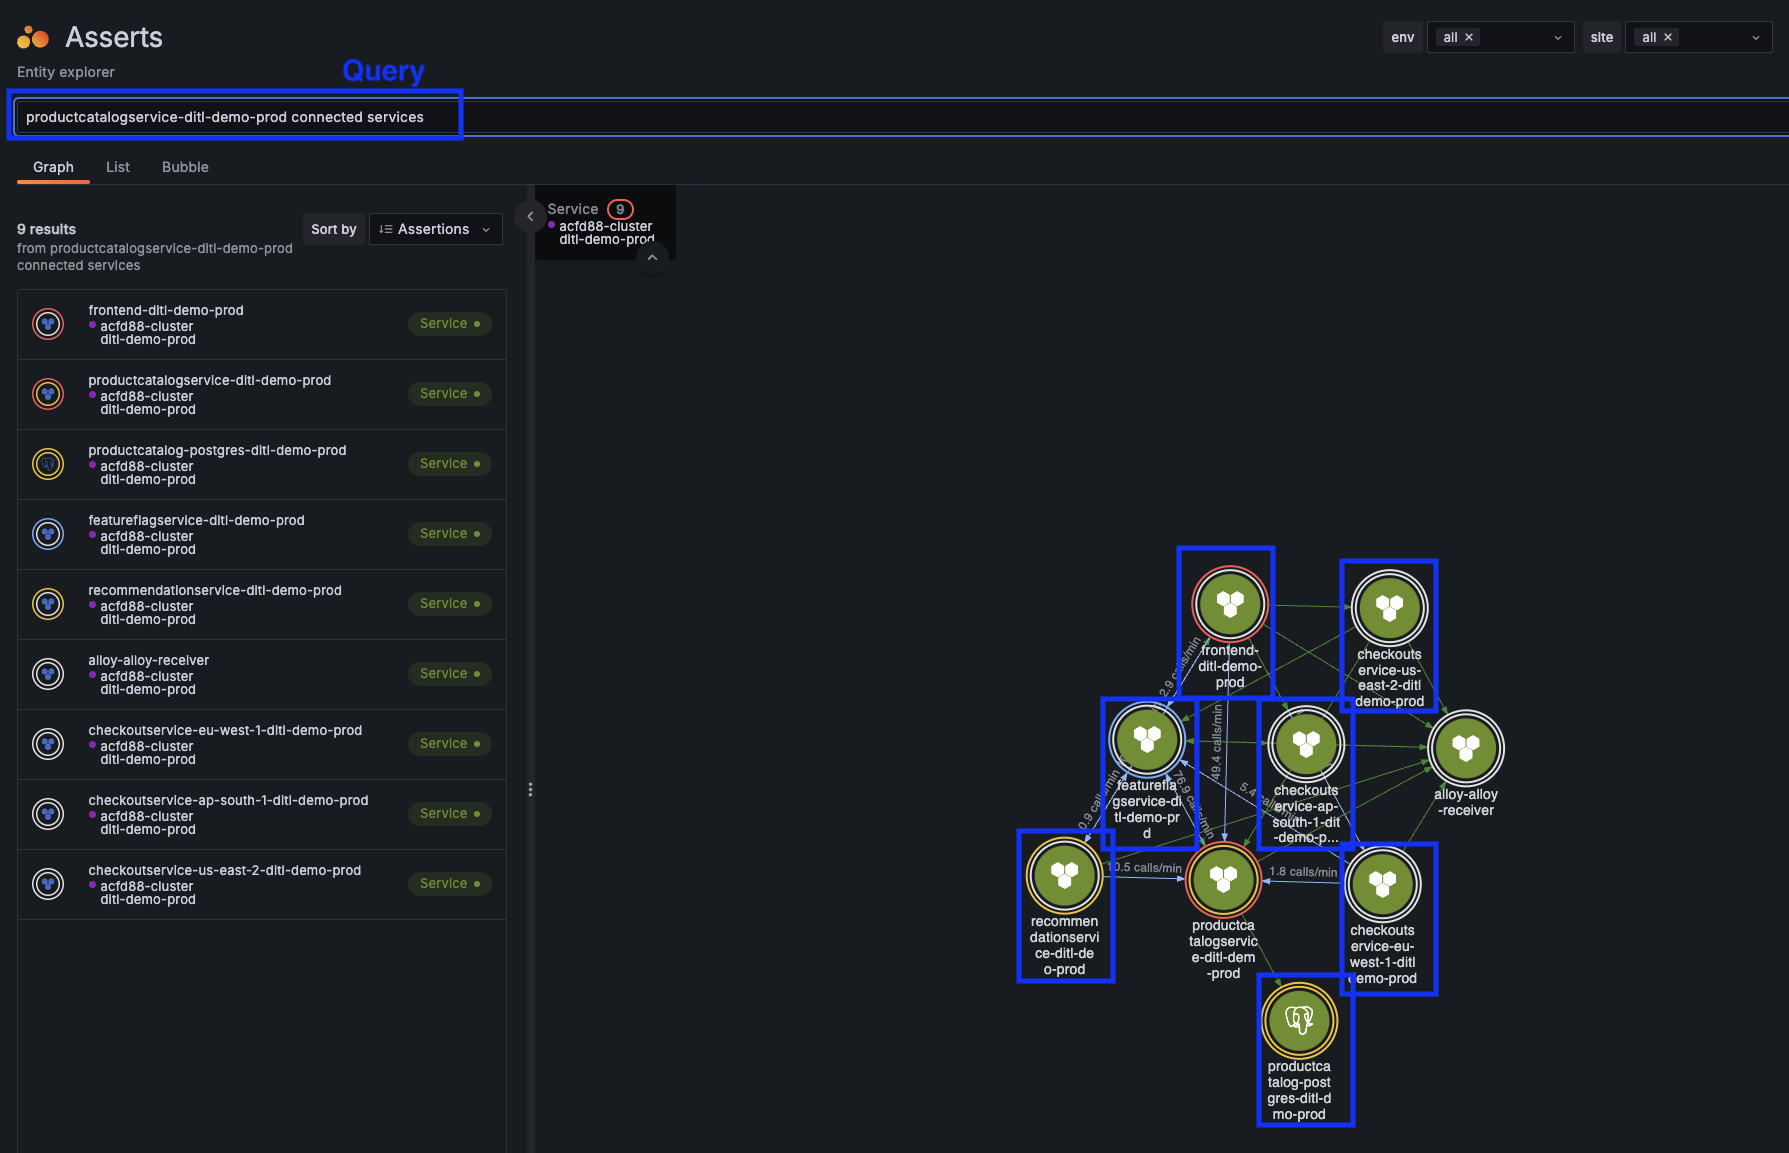
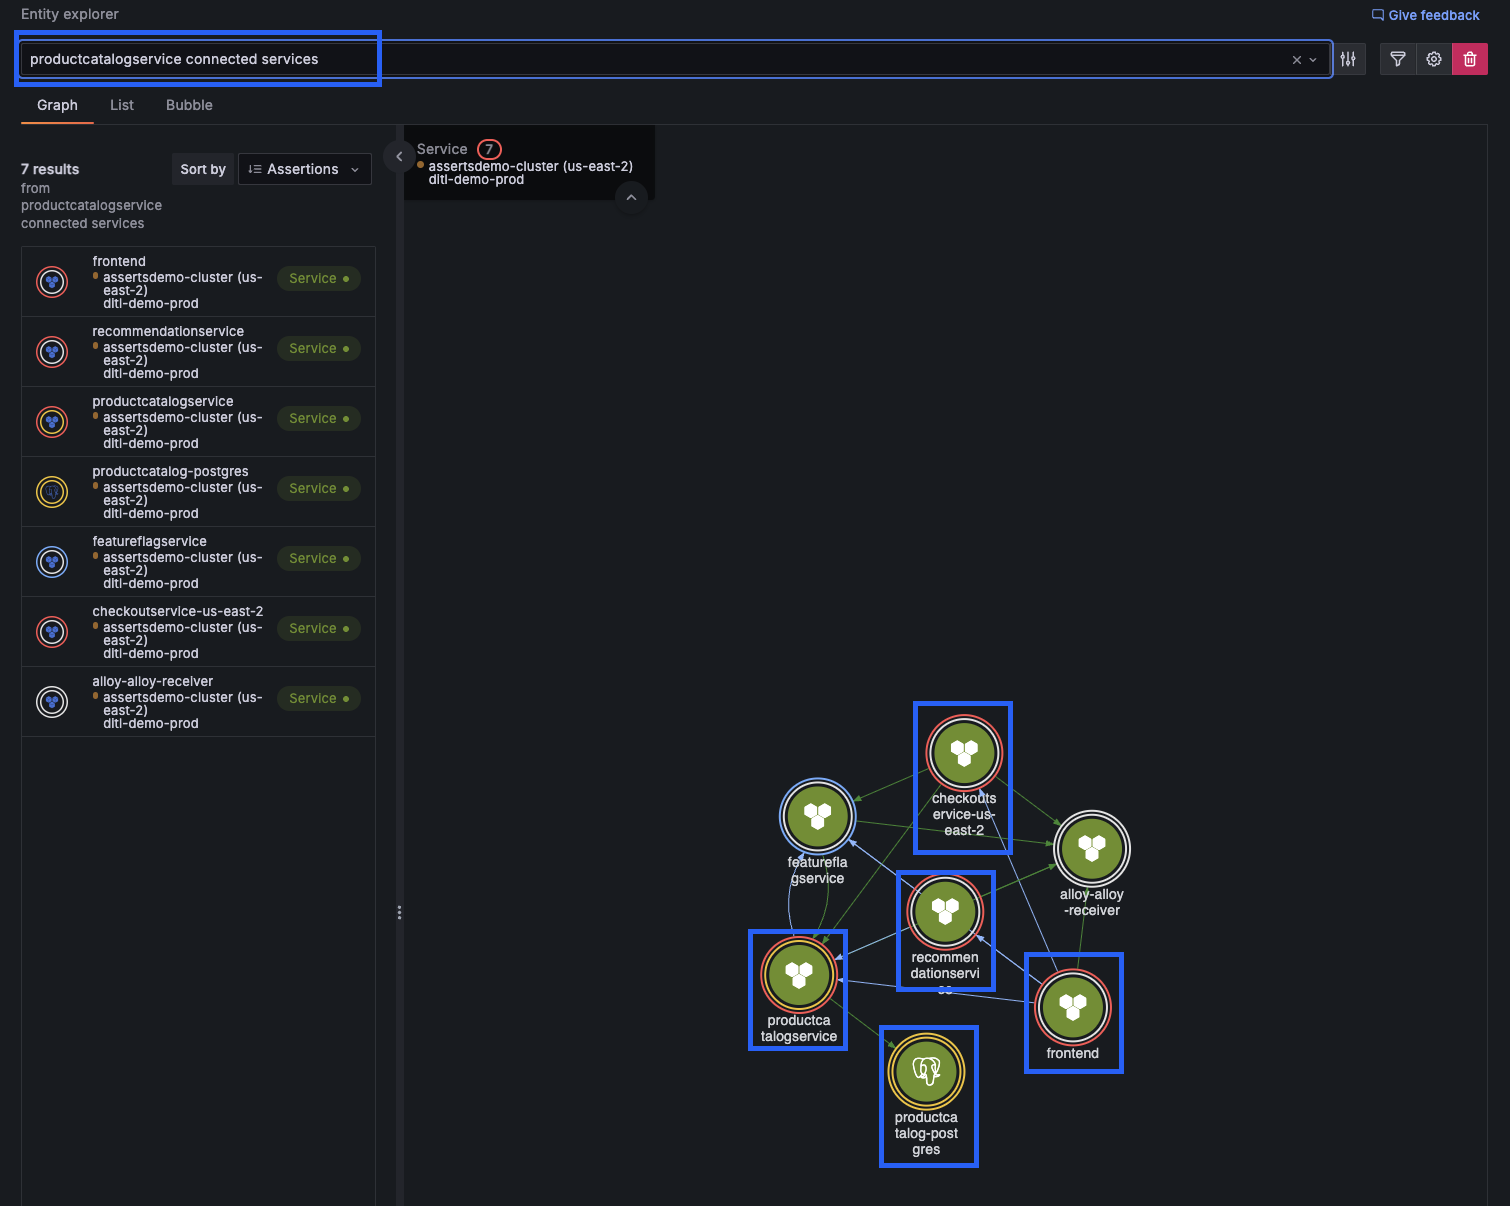
breakout 2 - 1.2

diff --git a/breakout_2_The-future-of-observability/breakout_2_answers/1.2-asserts.md b/breakout_2_The-future-of-observability/breakout_2_answers/1.2-asserts.md
@@ -1,12 +1,15 @@
 ## Asserts
 Q: How many application services are connected to the productcatalog service within the last 24 hours?
 
-A: 7 services (the alloy receiver is not counted as it is not a part of the application)
+A: Between 5 and 7 services 
+- The alloy receiver is not counted as it is not a part of the application
+- Depending on how k8s decided to route some requests, there may also be an additional 1 or 2 checkout services in different regions
 
 To find this there are three options:
 
 ### Option 1 - Via Entity Explorer Graph
-1. Open Asserts Entity Explorer and find the productcatalog-ditl-demo-prod service, click on it and expand `Connected Entities`
+1. Open Asserts Entity Explorer and find the productcatalog, click on it and expand `Connected Entities`
+
     ![allentities](/images/breakout_2/1.2-asserts-1.png)
 
 1. Click on `Services`
@@ -16,8 +19,8 @@ To find this there are three options:
     ![allentities](/images/breakout_2/1.2-asserts-2.png)
 
 ### Option 2 - Via Entity Explorer Search Bar
-1. Open Asserts Entity Explorer and type the following query in the search bar : `productcatalogservice-ditl-demo-prod connected services`    
-1. Click on the `productcatalogservice-ditl-demo-prod` service in the Graph results list. This will highlight the service with a blue circle.
+1. Open Asserts Entity Explorer and type the following query in the search bar : `productcatalogservice connected services`    
+1. Click on the `productcatalogservice` service in the Graph results list. This will highlight the service with a blue circle.
 1. Count the connected entities that have colored rings.
 
     ![allentities](/images/breakout_2/1.2-asserts-3.png)
